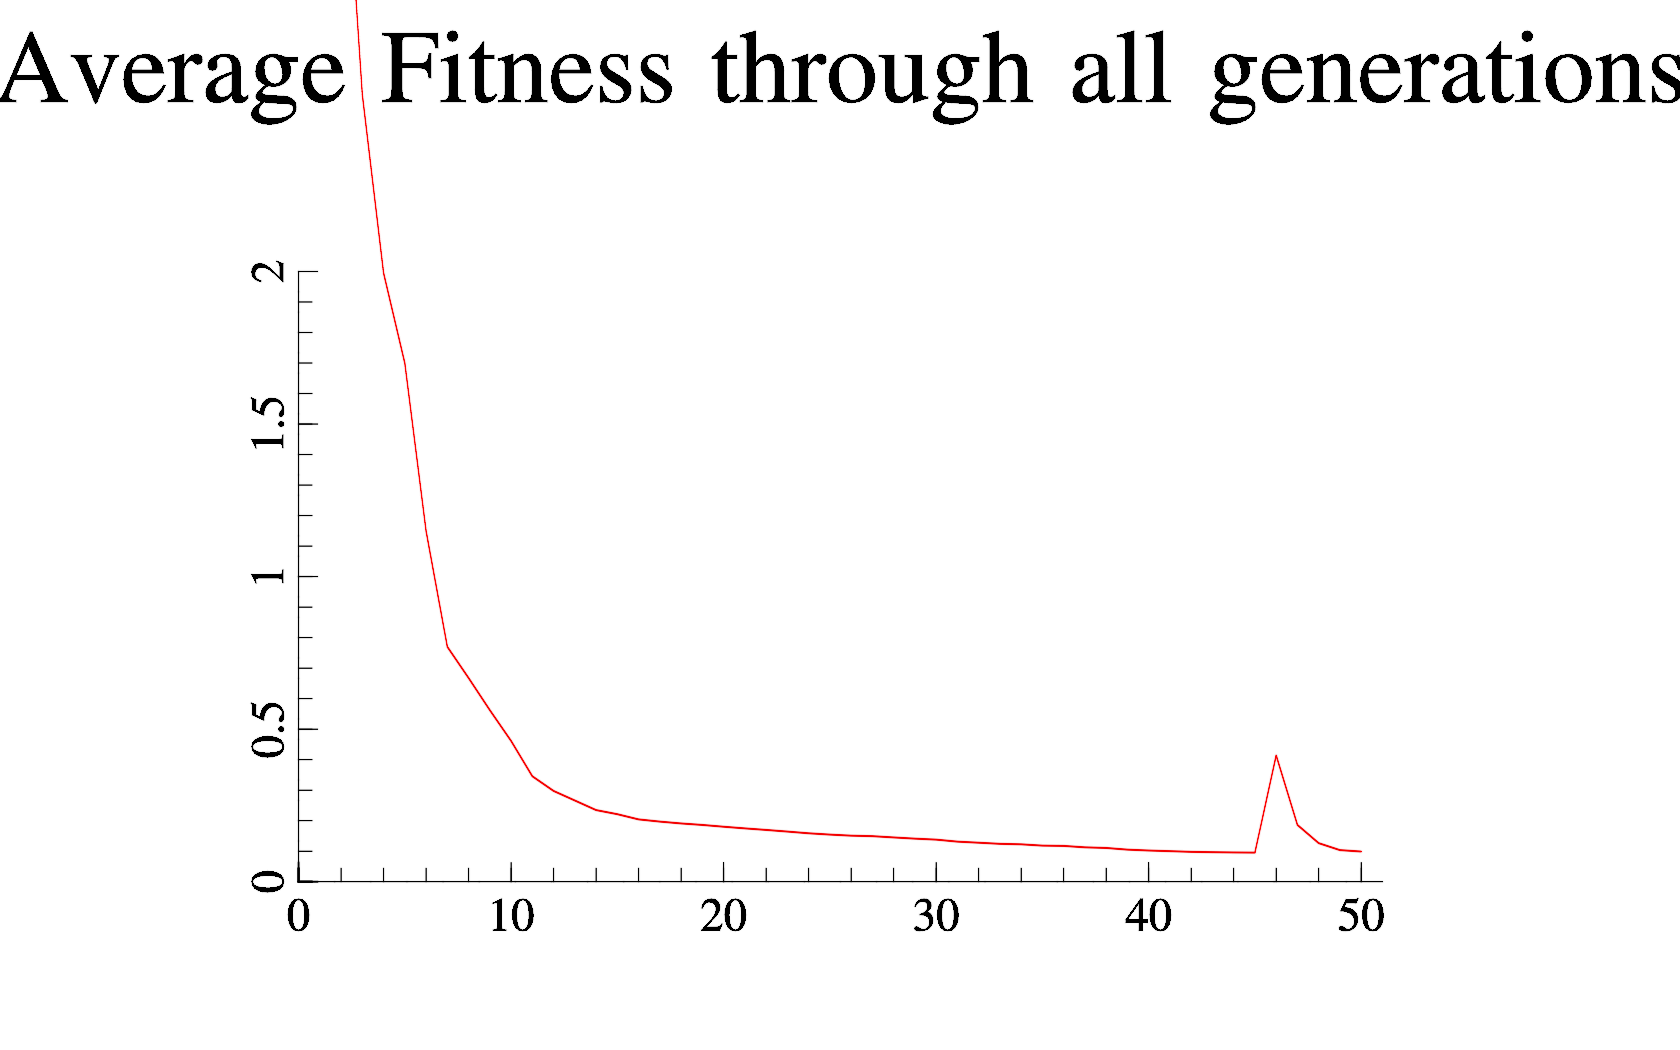
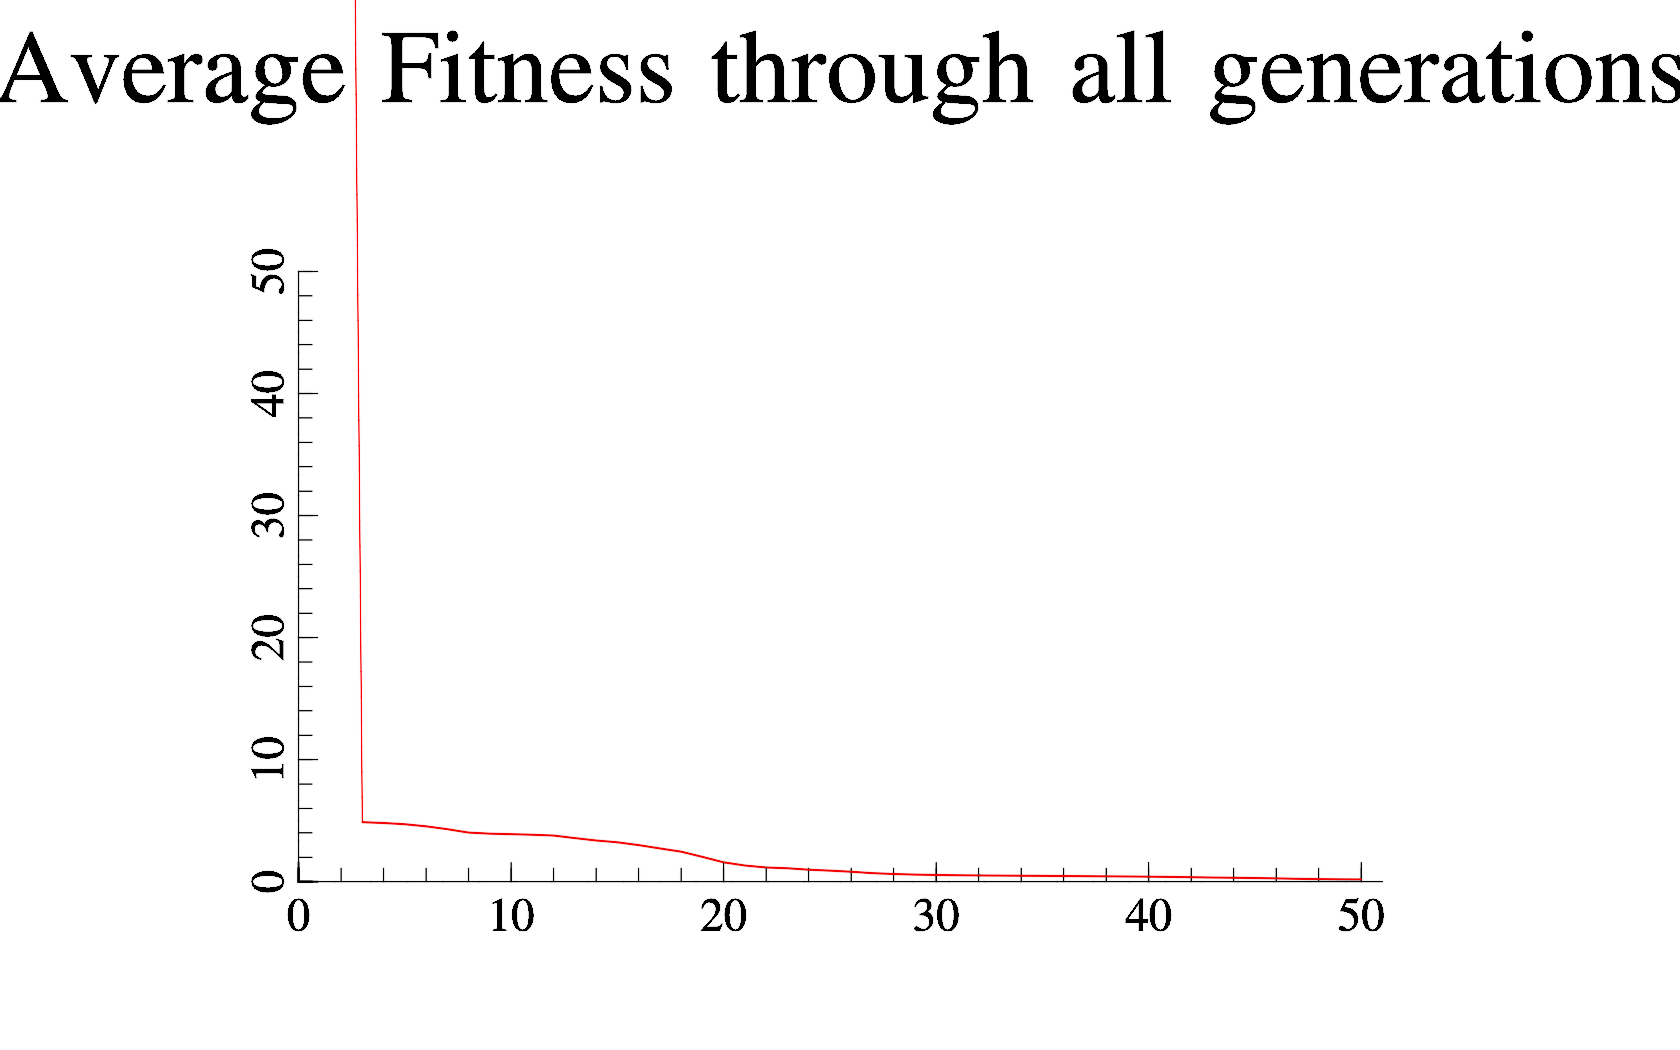
fixed errors

diff --git a/Odmocnina/include/GenProg.h b/Odmocnina/include/GenProg.h
@@ -162,6 +162,8 @@ void GenProg<T>::perform() {
     }
     this->initialize();
     this->evaluate();
+    log.addGeneration(currentGeneration);
+    lastGeneration = currentGeneration;
     generation = 0;
 
     while (generation < generationsLimit) {
@@ -181,20 +183,18 @@ template<typename T>
 void GenProg<T>::initialize() {
     std::cout << "init started" << std::endl;
     std::vector<std::thread> threads;
-    /*for (unsigned i = 0; i < populationSize; i++) {
+    for (unsigned i = 0; i < populationSize; i++) {
         std::thread newT(&GenProg<T>::createIndividual, this);
         threads.push_back(std::move(newT));
     }
 
     for (unsigned i = 0; i < threads.size(); i++) {
         threads[i].join();
-    }*/
-    for (unsigned i= 0;i<populationSize;i++){
-        createIndividual();
     }
+   /* for (unsigned i= 0;i<populationSize;i++){
+        createIndividual();
+    }*/
 
-    log.addGeneration(currentGeneration);
-    lastGeneration = currentGeneration;
 }
 
 
@@ -248,6 +248,9 @@ void GenProg<T>::evaluate() {
         }
     }
     std::sort(currentGeneration.begin(), currentGeneration.end());
+    if (reversedFitness){
+        std::reverse(currentGeneration.begin(),currentGeneration.end());
+    }
     //count acumulated fitness
     double accumulatedSum = 0.0;
     for (unsigned i = 0; i < currentGeneration.size(); i++) {
@@ -256,8 +259,10 @@ void GenProg<T>::evaluate() {
         currentGeneration[i].setAccumulatedNormalizedFitness(accumulatedSum);
     }
 
-    //std::cout << currentGeneration[0].getAccumulatedNormalizedFitness() << std::endl;
-    //std::cout << currentGeneration[99].getAccumulatedNormalizedFitness() << std::endl;
+    std::cout << currentGeneration[0].getFitness() << std::endl;
+    std::cout << currentGeneration[0].getNormalizedFitness() << std::endl;
+    std::cout << currentGeneration[currentGeneration.size()-1].getFitness() << std::endl;
+    std::cout << currentGeneration[currentGeneration.size()-1].getNormalizedFitness() << std::endl;
 }
 
 template<typename T>
@@ -269,7 +274,7 @@ void GenProg<T>::evaluateIndividual(int i) {
 
 template<typename T>
 void GenProg<T>::vary() {
-    currentGeneration = lastGeneration;
+    currentGeneration.clear();
     /*std::vector<std::thread> threads;
     while (currentGeneration.size() < populationSize * 2) {
         int randomNum = getRnd(0, mutationProbability + crossoverProbability);
@@ -315,11 +320,15 @@ void GenProg<T>::vary() {
             }
         }
     }
+    for (unsigned i=0;i<lastGeneration.size();i++){
+        currentGeneration.push_back(lastGeneration[i]);
+    }
 }
 
 
 template<typename T>
 void GenProg<T>::selection() {
+    std::sort(currentGeneration.begin(),currentGeneration.end());
     lastGeneration = std::vector<Node<T>>{};
     for (unsigned i = 0; i < populationSize; i++) {
         lastGeneration.push_back(currentGeneration[i]);
@@ -502,7 +511,7 @@ Node<T> GenProg<T>::getRandomIndividual() {
     std::uniform_real_distribution<> distr(0, std::nextafter(1, DBL_MAX));
     double rnd = distr(mt);
     for (unsigned i = 0; i < lastGeneration.size(); i++) {
-        if (lastGeneration[i].getFitness() > rnd) {
+        if (lastGeneration[i].getAccumulatedNormalizedFitness() > rnd) {
             return lastGeneration[i];
         }
     }

diff --git a/Odmocnina/include/Log.h b/Odmocnina/include/Log.h
@@ -19,7 +19,7 @@ class Log {
 public:
     Log();
 
-    void addGeneration(const std::vector<Node<T>> &newGen);
+    void addGeneration(const std::vector<Node<T>> newGen);
 
     const std::vector<Node<T>> getGeneration(unsigned int index) const;
 
@@ -31,12 +31,12 @@ public:
 };
 
 template<typename T>
-Log<T>::Log() : generations(std::vector<std::vector<Node<T> > >{}) {
+Log<T>::Log(){
 }
 
 
 template<typename T>
-void Log<T>::addGeneration(const std::vector<Node<T> > &newGen) {
+void Log<T>::addGeneration(const std::vector<Node<T> > newGen) {
     this->generations.push_back(newGen);
 }
 
@@ -63,11 +63,11 @@ void Log<T>::drawPngGraph() {
     mglGraph gr;
     gr.SetSize(1680, 1050);
     gr.Title("Average Fitness through all generations");
-    gr.SetRanges(0, generations.size(), 0, 2);
+    gr.SetRanges(0, generations.size(), 0, 50);
     gr.Axis();
 
     std::vector<mglPoint> points;
-    for (unsigned int i =1; i<generations.size();i++){
+    for (unsigned int i =0; i<generations.size();i++){
         points.push_back(mglPoint(i,getAverageFitness(i)));
     }
     for (unsigned i =1; i<points.size();i++){

diff --git a/Odmocnina/include/Node.h b/Odmocnina/include/Node.h
@@ -65,7 +65,7 @@ public:
 
     bool operator < (const Node& other) const
     {
-        return (this->normalizedFitness > other.normalizedFitness);
+        return (this->fitness < other.fitness);
     }
 
 };

diff --git a/Odmocnina/main.cpp b/Odmocnina/main.cpp
@@ -96,7 +96,7 @@ int main(int argc, char *argv[]) {
 
     g.setNumberOfAttempts(4);
 
-    g.setMaxTreeHeight(5);
+    g.setMaxTreeHeight(10);
 
     g.addTerminal(Func<double>(aterm, 0, 0, "d"));
 
